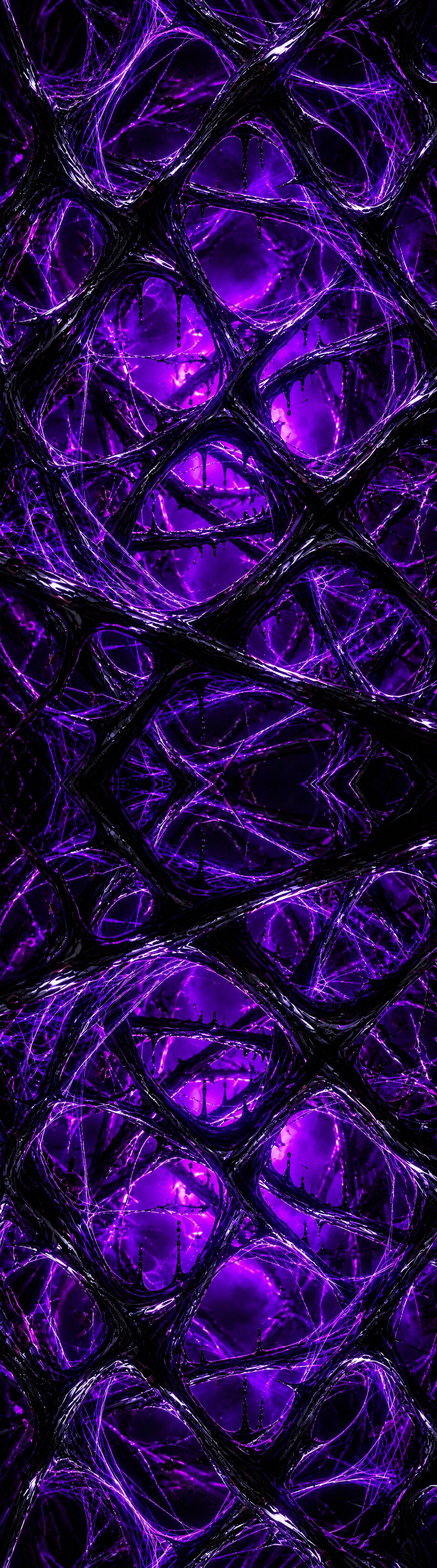
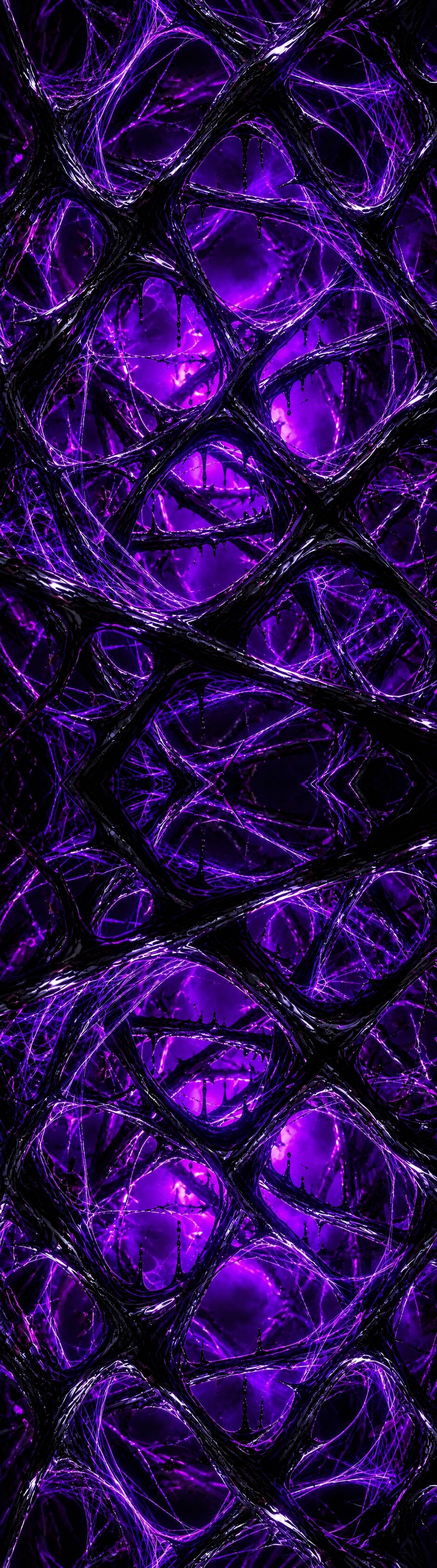
Add files via upload

diff --git a/index.html b/index.html
@@ -288,7 +288,7 @@
   .credentials{list-style:none;margin:28px 0 0;padding:0;}
   .credentials li{display:flex;justify-content:space-between;padding:14px 0;border-top:1px solid var(--line);font-size:14px;}
   .credentials li span:first-child{color:var(--bone-dim);letter-spacing:.05em;}
-  .signature{margin-top:32px;font-family:'Playfair Display',Didot,'Bodoni MT','Big Caslon',Garamond,'Times New Roman',serif;font-size:20px;color:#d4af37;}
+  .signature{margin-top:32px;font-family:'Playfair Display',Didot,'Bodoni MT','Big Caslon',Garamond,'Times New Roman',serif;font-size:28px;color:#d4af37;}
 
   .flash-card{
     position:relative;aspect-ratio:3/4;
